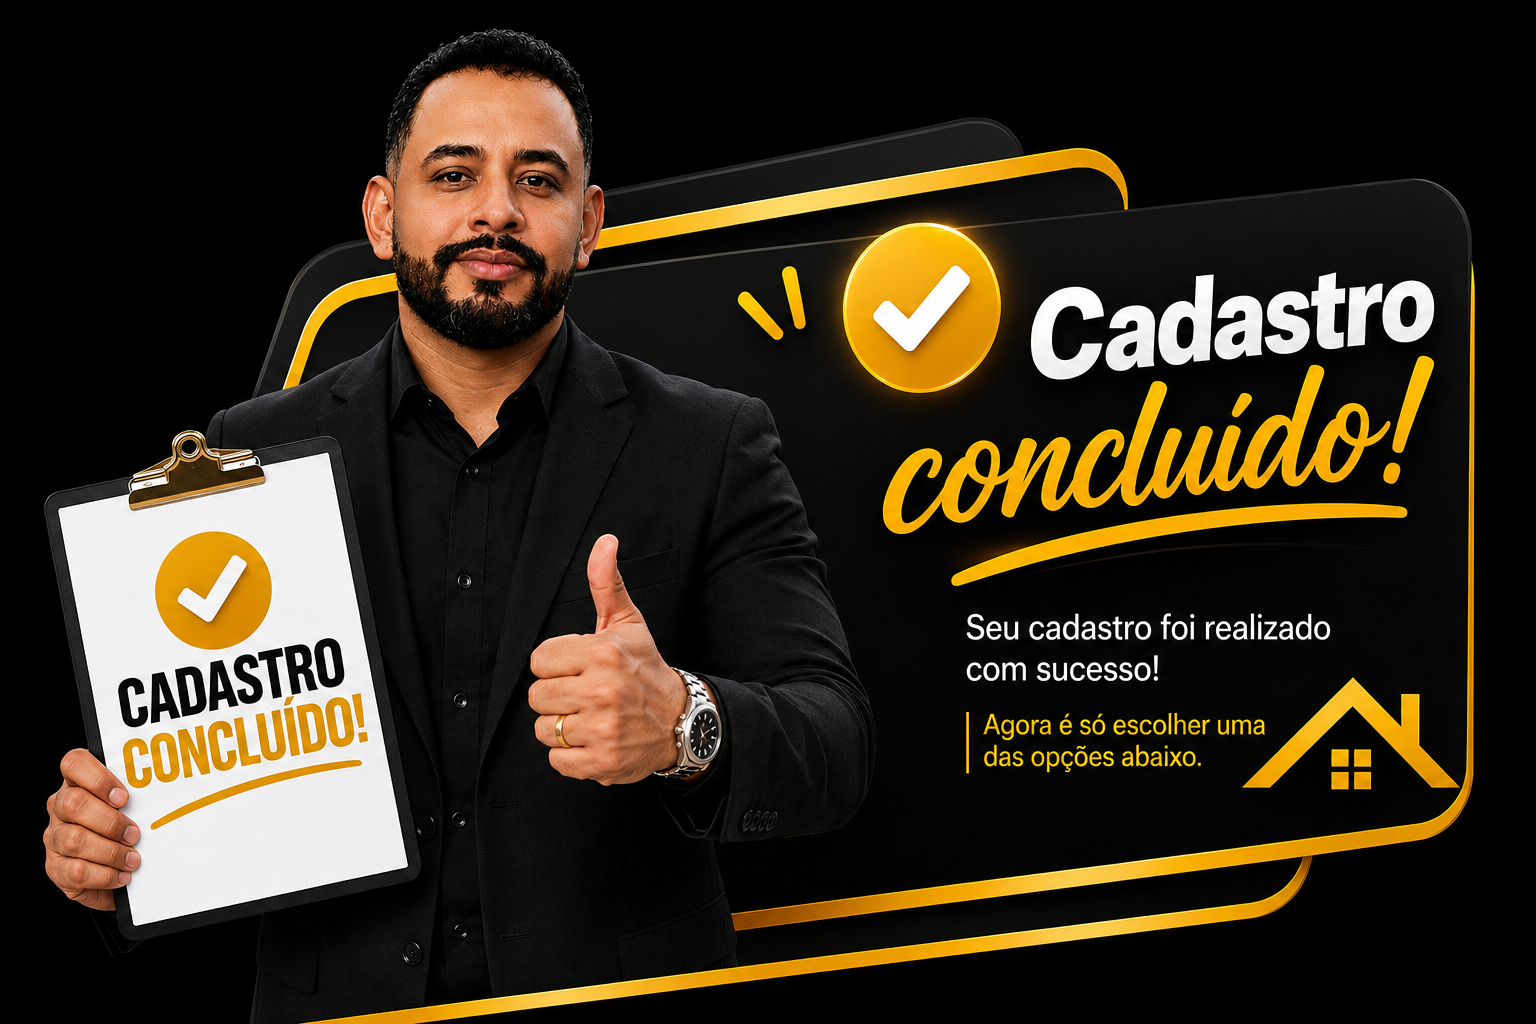
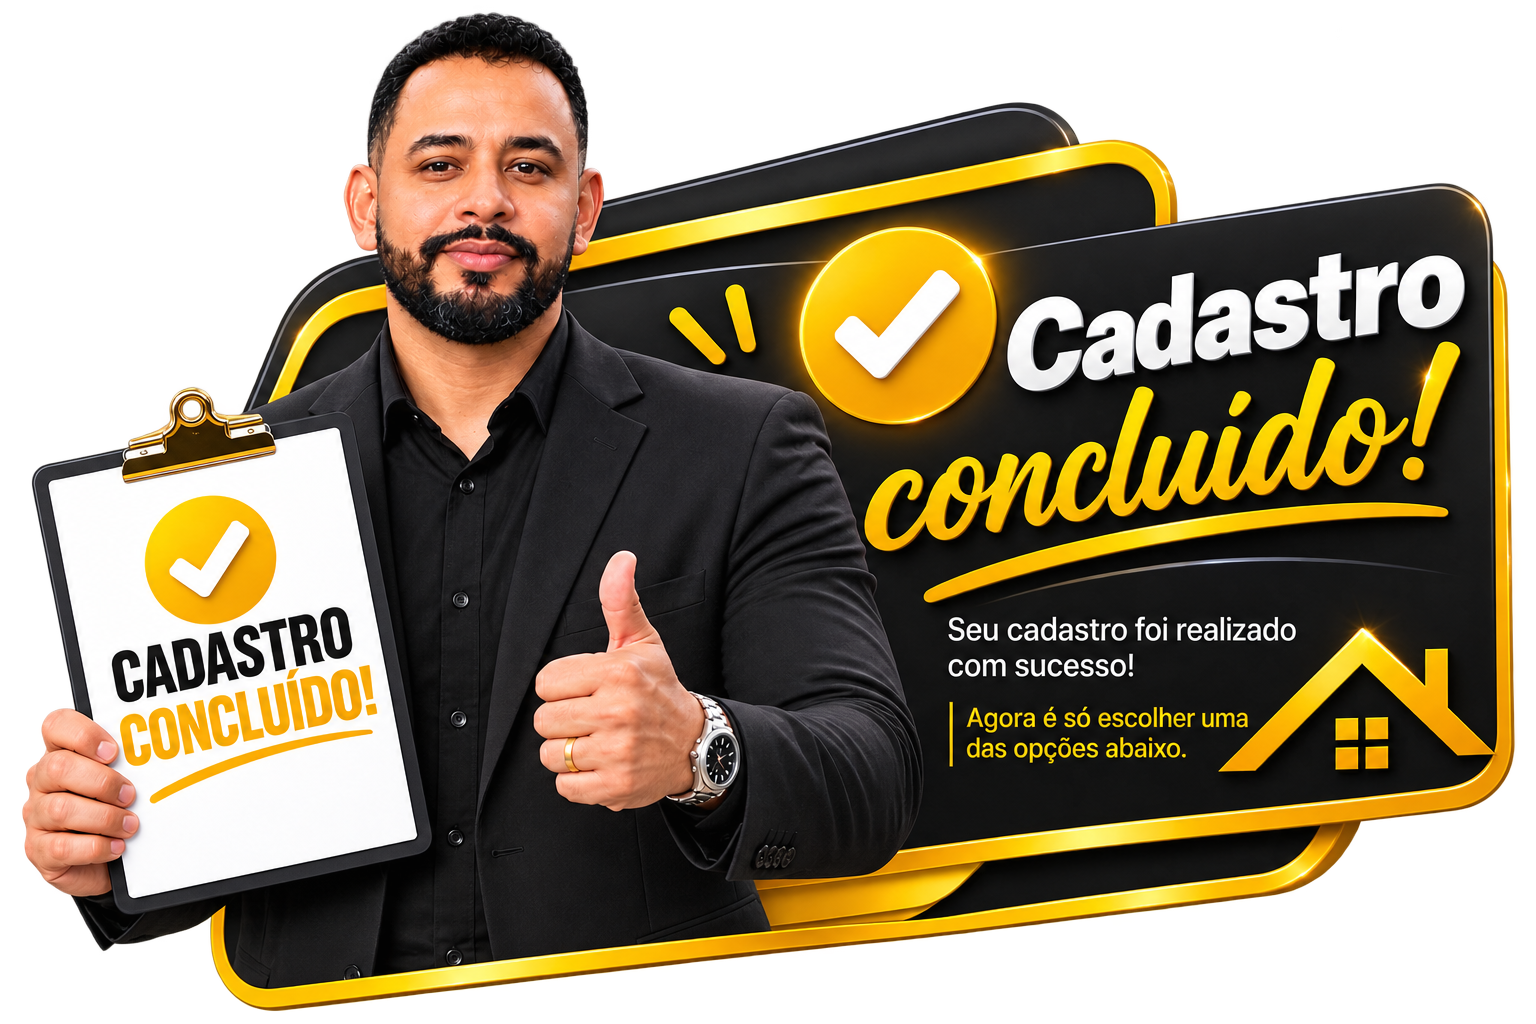
Ajusta foto do popup e fluxo de copiar dados na reserva
- Troca a imagem do popup pela versão com fundo transparente
- Ao copiar os dados manualmente, agora mostra 'Mensagem copiada!' e em
  seguida 'Redirecionando...' antes de levar o cliente para a home do
  site (rafaeltavarescorretor.com.br), em vez de apenas fechar o popup

diff --git a/reserva/index.html b/reserva/index.html
@@ -497,8 +497,8 @@ select.input option{background:#FFFFFF;color:#1A1710}
     </div>
 
     <div id="popup-copiar-feedback" style="display:none;text-align:center;background:rgba(26,158,82,0.1);border:1px solid rgba(26,158,82,0.35);border-radius:10px;padding:12px 16px;margin-top:14px">
-      <div style="color:var(--green);font-weight:700;font-size:13px">✓ Mensagem copiada!</div>
-      <div style="font-size:12px;color:var(--text2);margin-top:2px">Agora cole o cadastro na conversa com o corretor.</div>
+      <div id="popup-copiar-titulo" style="color:var(--green);font-weight:700;font-size:13px">✓ Mensagem copiada!</div>
+      <div id="popup-copiar-sub" style="font-size:12px;color:var(--text2);margin-top:2px">Agora cole o cadastro na conversa com o corretor.</div>
     </div>
   </div>
 </div>
@@ -1290,7 +1290,10 @@ function copiarCadastro(){
 
 function abrirPopupConclusao(){
   if(!validarFormulario())return;
-  document.getElementById('popup-copiar-feedback').style.display='none';
+  const feedback=document.getElementById('popup-copiar-feedback');
+  feedback.style.display='none';
+  document.getElementById('popup-copiar-titulo').textContent='✓ Mensagem copiada!';
+  document.getElementById('popup-copiar-sub').textContent='Agora cole o cadastro na conversa com o corretor.';
   document.getElementById('popup-overlay').classList.add('aberto');
   document.body.style.overflow='hidden';
 }
@@ -1308,10 +1311,20 @@ function popupEnviarWhatsapp(){
 function popupCopiarDados(){
   const msg=montarMensagemCadastro();
   const feedback=document.getElementById('popup-copiar-feedback');
+  const titulo=document.getElementById('popup-copiar-titulo');
+  const sub=document.getElementById('popup-copiar-sub');
   function mostrarSucesso(){
     if(feedback){
       feedback.style.display='block';
-      setTimeout(fecharPopupConclusao,1800);
+      if(titulo)titulo.textContent='✓ Mensagem copiada!';
+      if(sub)sub.textContent='Agora cole o cadastro na conversa com o corretor.';
+      setTimeout(function(){
+        if(titulo)titulo.textContent='Redirecionando…';
+        if(sub)sub.textContent='Levando você para o site rafaeltavarescorretor.com.br';
+        setTimeout(function(){
+          window.location.href='https://rafaeltavarescorretor.com.br/';
+        },1400);
+      },1600);
     }
   }
   if(navigator.clipboard && navigator.clipboard.writeText){
